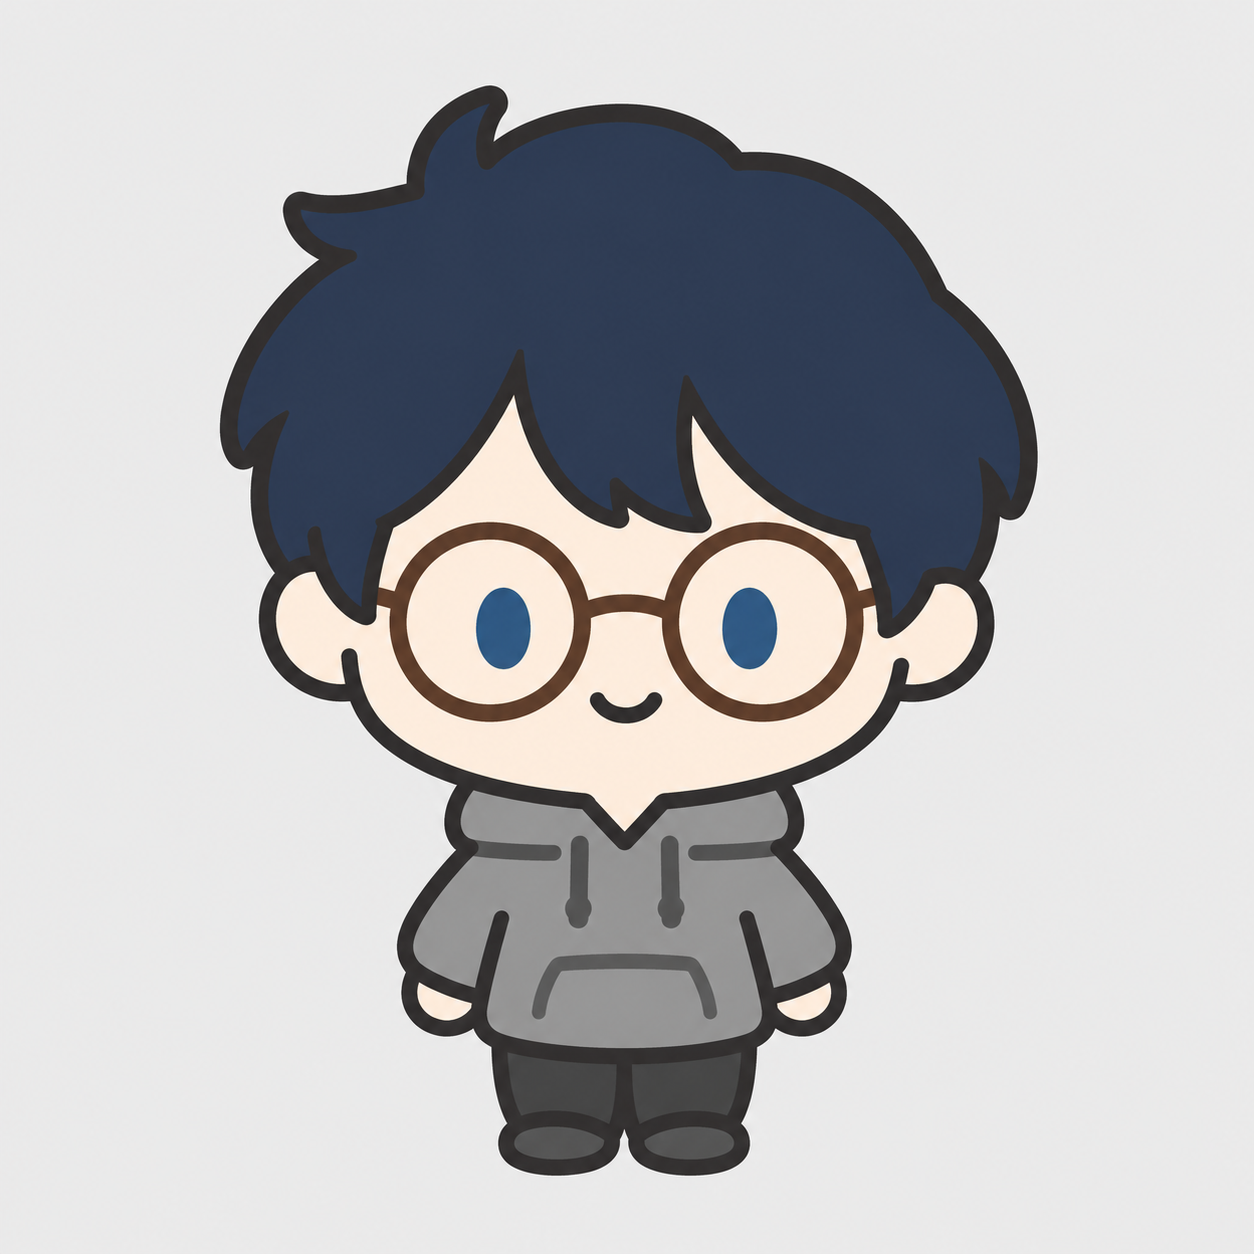
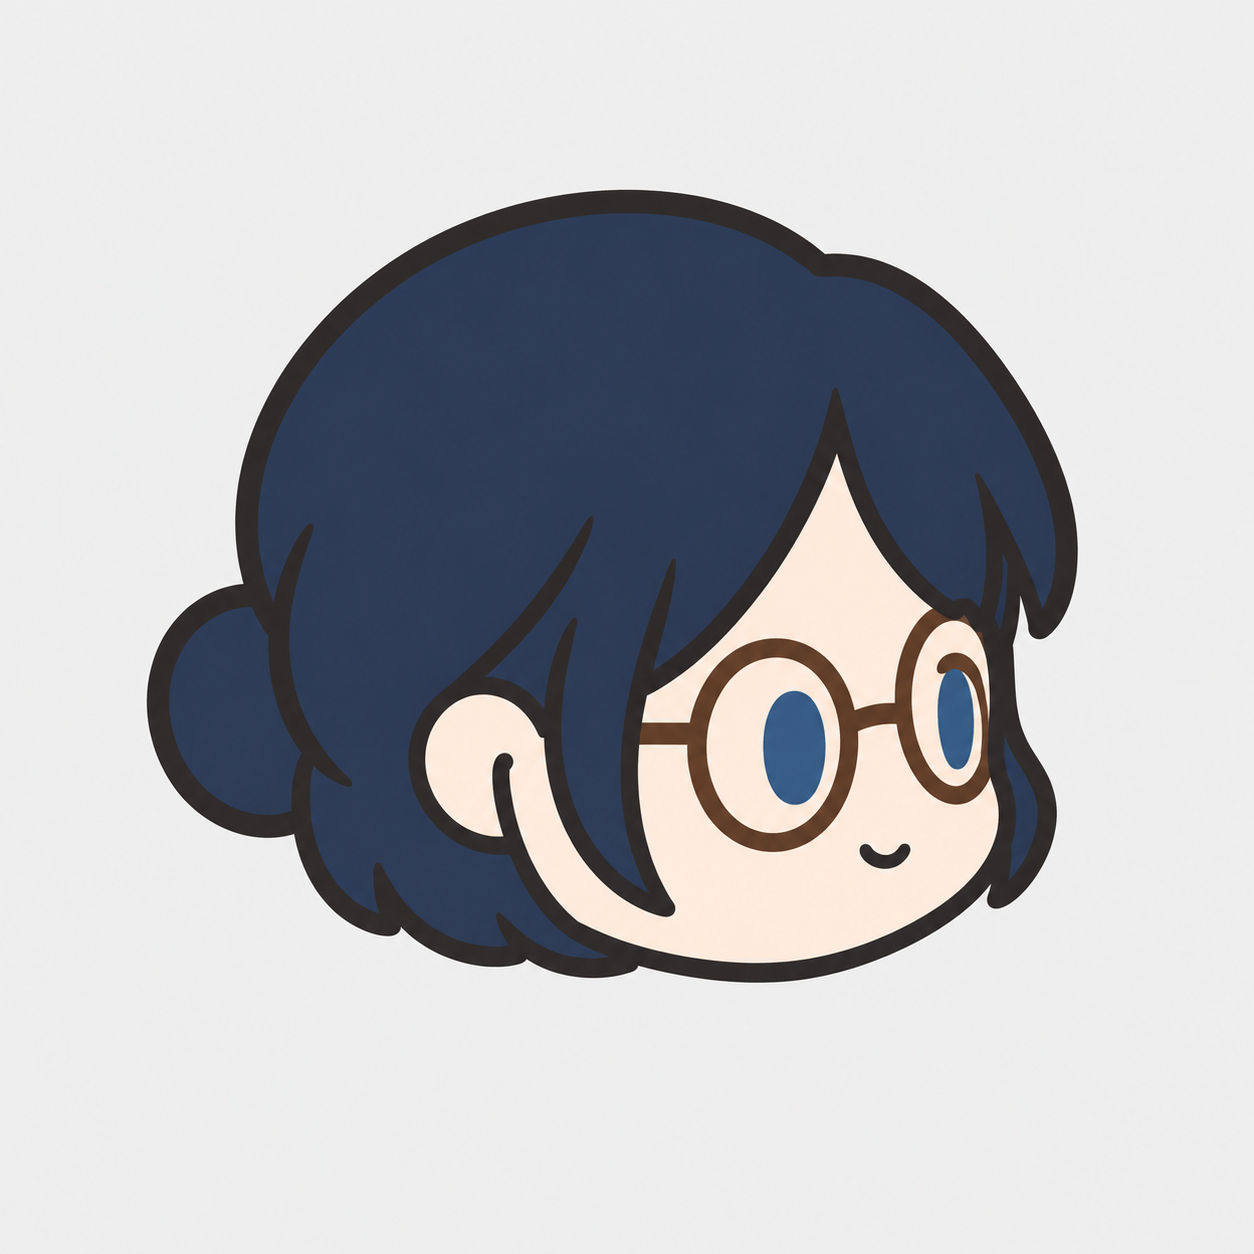
style: use three-quarter female SD face for default image

Changed region(s): [[0.0933, 0.0622, 0.8708, 0.9641]]

diff --git a/docs/harness/default-product-image.md b/docs/harness/default-product-image.md
@@ -1,11 +1,11 @@
 # 기본 상품 이미지
 
-자산: `public/images/default-product.png`. 내장 image_gen 도구로 생성(2026-10-14). 원본 PNG를 프로젝트에 복사했고 별도 편집은 하지 않았다.
+자산: `public/images/default-product.png`. 내장 image_gen 도구로 생성·편집(2026-10-14). 최종 PNG를 프로젝트에 복사했다.
 
 판매 카드와 상품 관리의 이미지 URL이 없거나 로드에 실패하면 표시한다. 기본 파일도 실패하면 텍스트를 표시해 반복 요청을 피한다. 상품 DB에 기본 이미지 URL을 저장하지 않으며, 서비스 워커 v5의 앱 셸 캐시에 포함한다.
 
-최종 생성 프롬프트:
+최종 이미지는 여성 캐릭터의 얼굴만 오른쪽을 바라보는 반측면(3/4 각도)으로 수정했다. 단순한 이모티콘 스타일을 유지했다. 내장 도구의 최종 편집 프롬프트:
 
 ```text
-Create a very simple emoticon sticker mascot, NOT a detailed anime illustration. One original chibi SD character with huge round head and tiny simple body, front facing, centered on plain very light gray square. Dark navy-blue hair drawn as ONE flat shape with only 3-4 rounded tufts, two small blue dot/oval eyes, BROWN round eyeglasses with simple thick lines, tiny smiling mouth. Grayscale gray hoodie and tiny mitten hands, rounded compact body. Minimal thick clean charcoal outlines of uniform width. Flat solid fills only, NO gradients, NO shading, NO hair strands, NO textures, NO highlights, NO realistic detail, NO elaborate clothing folds, NO scenery. Like a cute minimal messenger emoji or hand-drawn chat sticker, readable at 48px. Muted near-achromatic palette with only subdued navy hair, blue eyes, brown glasses. Character takes 65 percent of canvas with generous margins. No text, no logos, no border, no watermark.
+Edit this simple female SD emoticon head to THREE-QUARTER VIEW (3/4 view), turned approximately 35 degrees toward the RIGHT. Both blue eyes must be visible, with the farther eye slightly smaller. BOTH round brown eyeglass lenses are visible, the farther lens slightly narrower. NOT a full side profile, NOT front-facing. HEAD ONLY with no neck, shoulders or body. Retain the dark navy bob hair with a small back bun, muted blue eyes, brown glasses, tiny friendly smile, cute female SD proportions, thick simple charcoal outlines, minimal flat emoticon sticker style, muted colors with light gray square background and generous margin. No detailed illustration, no hair strands, textures, lighting effects or gradients, no text, logo or watermark.
 ```

diff --git a/docs/harness/validation.md b/docs/harness/validation.md
@@ -114,5 +114,5 @@
 ### 기본 SD 캐릭터 이미지 후속 변경
 
 - 이미지 미등록/제거/외부 이미지 로드 실패 시 앱에 포함된 기본 SD 캐릭터를 판매 카드와 상품 관리에서 표시한다. 기본 파일 로드 실패는 텍스트로 대체하며 재요청을 반복하지 않는다.
-- 기본 PNG를 시각 확인: 짙은 남색 머리, 파란 눈, 갈색 안경, 무채색 의상·배경. 생성 프롬프트는 default-product-image.md에 기록했다.
+- 기본 PNG를 시각 확인: 짙은 남색 머리, 파란 눈, 갈색 안경, 무채색 배경. 단순한 이모티콘 스타일의 여성 얼굴만 오른쪽을 바라보는 반측면으로 표시한다. 최종 편집 프롬프트는 default-product-image.md에 기록했다.
 - 서비스 워커 v5에 기본 이미지를 캐시한다. 실제 브라우저의 이미지 전환, 이미지 제거, 오프라인 및 CACHE-01 갱신 시나리오는 미실행.
